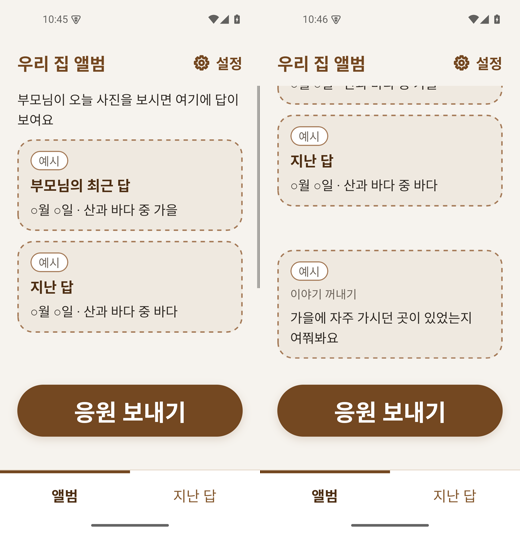
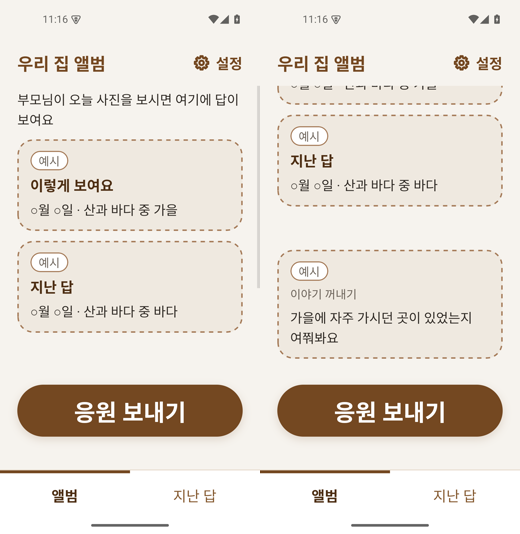
fix(c4): 재확인 L6·L7·디자인 #94 반영(PR #87)
- L6: 위 끝이 흐림 구간 안에서 시작하는 요소도 민다('이미 밖' 기준 = max(접힘, pushTo))
- L7: 예시 읽기 이름은 날짜 없이(copy spoken) — '○' 기호로 읽히지 않게
- 디자인 #94: 첫 예시 제목 '이렇게 보여요'(라이터 확인 대상), 예시 칩 글자 자녀 16/24 테스트

diff --git a/app/src/features/home/ChildHomeEmpty.tsx b/app/src/features/home/ChildHomeEmpty.tsx
@@ -31,7 +31,8 @@ export function ChildHomeEmpty({fold}: {fold: ReturnType<typeof useEmptyFold>}) 
             key={x.title}
             testID={`child-home-example-${i + 1}`}
             accessible
-            accessibilityLabel={`${e.chip}, ${x.title}, ${x.line} ${x.choice}`}
+            // 재확인 L7: 읽기 이름에는 '○월 ○일'(기호로 읽힘)을 빼고 spoken 을 쓴다
+            accessibilityLabel={`${e.chip}, ${x.title}, ${x.spoken} ${x.choice}`}
             onLayout={fold.onItem(i + 1)}
             style={[styles.example, fold.gapStyle(i + 1)]}>
             <View style={styles.chip}>

diff --git a/app/src/ui/ds/useFoldGap.tsx b/app/src/ui/ds/useFoldGap.tsx
@@ -33,8 +33,8 @@ export function useFoldGap(count: number, between: number, from = 0, glue: reado
       if (h === undefined) {
         return; // 다 잰 뒤에
       }
-      if (top >= viewH) {
-        break; // 이미 접힘 밖
+      if (top >= Math.max(viewH, pushAt)) {
+        break; // 이미 접힘 밖(겹쳐 그리는 흐림이 있으면 그 아래 끝까지 — 흐림 속에서 시작하는 요소도 민다, PR #87 재확인 L6)
       }
       if (top + h > viewH && i >= from) {
         const withPrev = i - 1 >= from && glue.includes(i - 1);

diff --git a/docs/team/dev-app-notes.md b/docs/team/dev-app-notes.md
@@ -617,3 +617,4 @@
 - DsScreen: R-12 Dock 풀림을 `dockReleaseOnKeyboard` 로만 켬(C0-b 만, P6 충돌 방지 #82 L2). 풀린 조건 기억(L3), 넘침 단계 ref(L4).
 - 재확인(bcf7189) 반영: H1 접힘 기준 = 본문 영역(스크롤 창 + 띠, Screen onBodyArea) − 띠 24. 띠가 나오고 사라져도 그대로(스크롤 창 높이를 쓰면 맨 아래에서 튐, '잰 값 중 최대' 판은 첫 배치의 일시적 큰 값을 잡아 틀림 — 실측). 접힘 맞춤은 ui/ds useFoldGap(count, between, from, glue)로 일반화. L9 묶음 제목은 첫 단계와 붙여 민다(glue). L7 처음부터 만료면 알리지 않음(번호 카드를 보던 중 바뀔 때만). L8 기준 150% 이상 유지(디자인 a). L10 접힘 맞춤은 3단계 묶음만(번호 카드는 늘 첫 요소, 알림 줄은 카드 안/바로 아래라 대상 밖) — 다른 화면은 useFoldGap 로 각자.
 - 리뷰(fa3a63b) 반영: M1 이야기 꺼내기도 예시 카드와 같은 모양(칩·점선·흐린 면, 디자인 #92 a)·읽기 '예시, 이야기 꺼내기, …'. 예시 날짜 '○월 ○일'(디자인 #89). L1 연결 0명(parents 빈 배열·가짜 호환 한 분)이면 빈 상태 대신 기존 카드. L3 테스트(나누지 않는 분 섞임·첫 답이 생기면 실제 카드). L4 옛 Screen 흐림(28)에 걸치면 민다(기준 = 창 − 28), 민 요소는 창 끝으로(useFoldGap onViewport(h, pushTo)) — 흐림 속에 위 테두리가 비치던 것 실측 후 고침.
+- 재확인(1c20f5e) 반영: L6 위 끝이 흐림 구간(창 − 28 ~ 창) 안에서 시작하는 요소도 민다('이미 밖' 기준 = max(접힘, pushTo)). L7 예시 읽기 이름은 날짜 없이(copy spoken, '○' 기호로 읽히지 않게). 디자인 #94: 첫 예시 제목 '이렇게 보여요'(실제 카드와 다르게, 라이터 확인 대상), 예시 칩 글자 sub(자녀 16/24, 확대 비례) 테스트.
